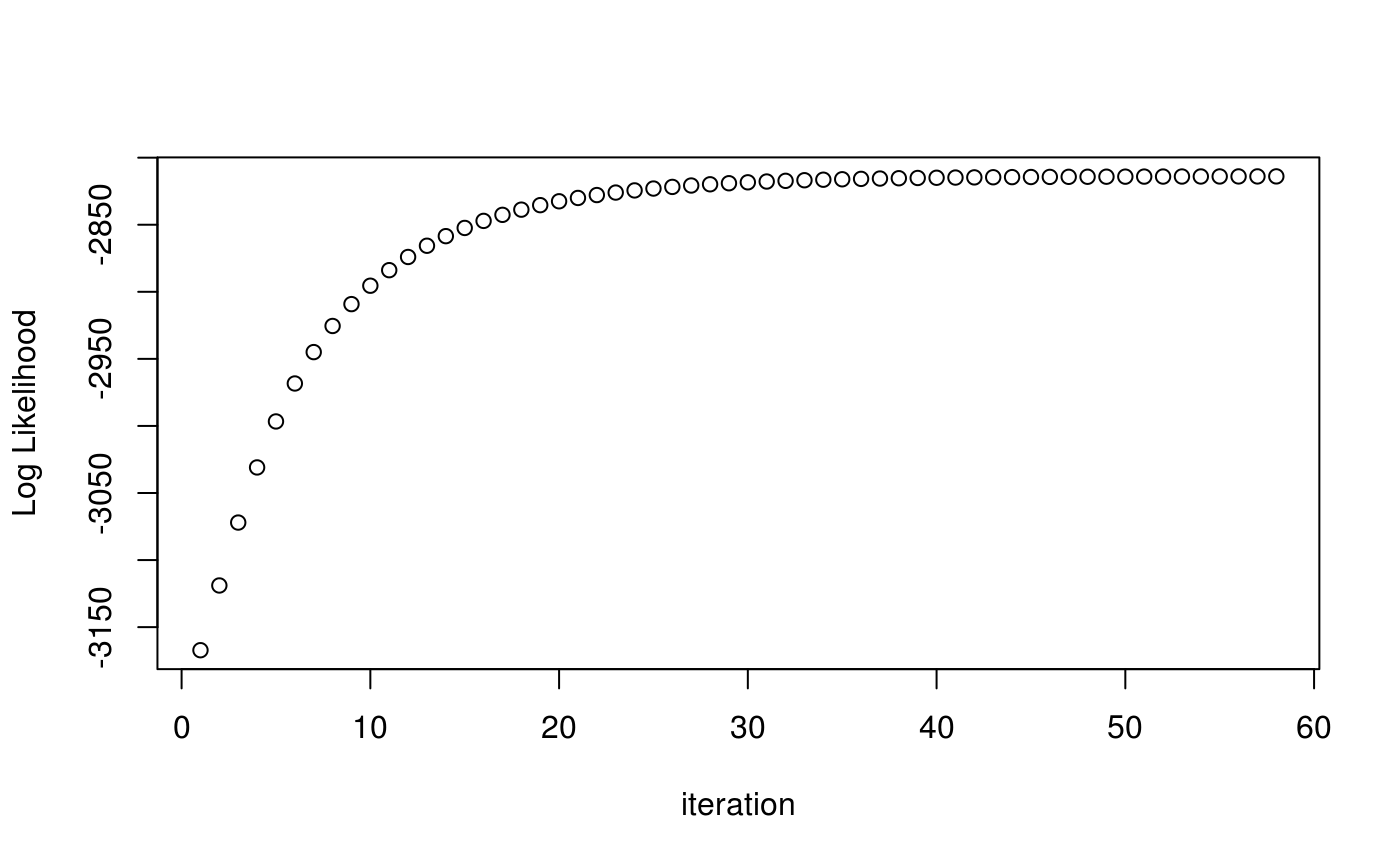
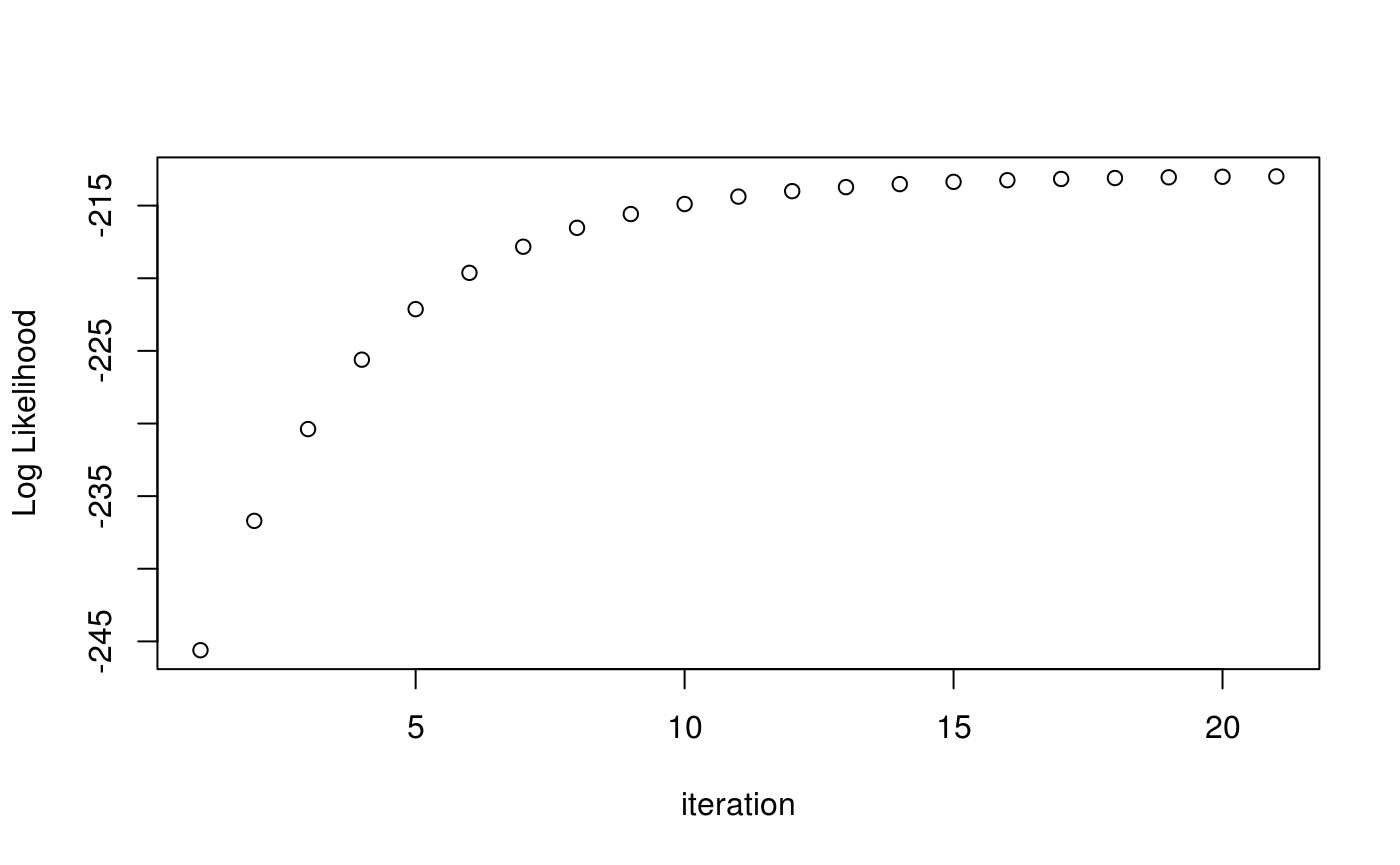
Built site for MixMatrix: 0.2.1@7a97ada

diff --git a/reference/matrixmixture.html b/reference/matrixmixture.html
@@ -258,9 +258,9 @@ numbers output more results.</p></td>
 
     <h2 class="hasAnchor" id="examples"><a class="anchor" href="#examples"></a>Examples</h2>
     <pre class="examples"><div class='input'><span class='fu'><a href='https://www.rdocumentation.org/packages/base/topics/Random'>set.seed</a></span>(<span class='fl'>20180221</span>)
-<span class='no'>A</span> <span class='kw'>&lt;-</span> <span class='fu'><a href='rmatrixt.html'>rmatrixt</a></span>(<span class='fl'>30</span>,<span class='kw'>mean</span><span class='kw'>=</span><span class='fu'><a href='https://www.rdocumentation.org/packages/base/topics/matrix'>matrix</a></span>(<span class='fl'>0</span>,<span class='kw'>nrow</span><span class='kw'>=</span><span class='fl'>3</span>,<span class='kw'>ncol</span><span class='kw'>=</span><span class='fl'>4</span>), <span class='kw'>df</span> <span class='kw'>=</span> <span class='fl'>20</span>)
+<span class='no'>A</span> <span class='kw'>&lt;-</span> <span class='fu'><a href='rmatrixt.html'>rmatrixt</a></span>(<span class='fl'>30</span>,<span class='kw'>mean</span><span class='kw'>=</span><span class='fu'><a href='https://www.rdocumentation.org/packages/base/topics/matrix'>matrix</a></span>(<span class='fl'>0</span>,<span class='kw'>nrow</span><span class='kw'>=</span><span class='fl'>3</span>,<span class='kw'>ncol</span><span class='kw'>=</span><span class='fl'>4</span>), <span class='kw'>df</span> <span class='kw'>=</span> <span class='fl'>5</span>)
 <span class='co'># 3x4 matrices with mean 0</span>
-<span class='no'>B</span> <span class='kw'>&lt;-</span> <span class='fu'><a href='rmatrixt.html'>rmatrixt</a></span>(<span class='fl'>30</span>,<span class='kw'>mean</span><span class='kw'>=</span><span class='fu'><a href='https://www.rdocumentation.org/packages/base/topics/matrix'>matrix</a></span>(<span class='fl'>2</span>,<span class='kw'>nrow</span><span class='kw'>=</span><span class='fl'>3</span>,<span class='kw'>ncol</span><span class='kw'>=</span><span class='fl'>4</span>), <span class='kw'>df</span> <span class='kw'>=</span> <span class='fl'>20</span>)
+<span class='no'>B</span> <span class='kw'>&lt;-</span> <span class='fu'><a href='rmatrixt.html'>rmatrixt</a></span>(<span class='fl'>30</span>,<span class='kw'>mean</span><span class='kw'>=</span><span class='fu'><a href='https://www.rdocumentation.org/packages/base/topics/matrix'>matrix</a></span>(<span class='fl'>1</span>,<span class='kw'>nrow</span><span class='kw'>=</span><span class='fl'>3</span>,<span class='kw'>ncol</span><span class='kw'>=</span><span class='fl'>4</span>), <span class='kw'>df</span> <span class='kw'>=</span> <span class='fl'>5</span>)
 <span class='co'># 3x4 matrices with mean 2</span>
 <span class='no'>C</span> <span class='kw'>&lt;-</span> <span class='fu'><a href='https://www.rdocumentation.org/packages/base/topics/array'>array</a></span>(<span class='fu'><a href='https://www.rdocumentation.org/packages/base/topics/c'>c</a></span>(<span class='no'>A</span>,<span class='no'>B</span>), <span class='kw'>dim</span><span class='kw'>=</span><span class='fu'><a href='https://www.rdocumentation.org/packages/base/topics/c'>c</a></span>(<span class='fl'>3</span>,<span class='fl'>4</span>,<span class='fl'>60</span>)) <span class='co'># combine into one array</span>
 <span class='no'>prior</span> <span class='kw'>&lt;-</span> <span class='fu'><a href='https://www.rdocumentation.org/packages/base/topics/c'>c</a></span>(<span class='fl'>.5</span>,<span class='fl'>.5</span>) <span class='co'># equal probability prior</span>
@@ -270,22 +270,22 @@ numbers output more results.</p></td>
               <span class='kw'>V</span> <span class='kw'>=</span> <span class='fu'><a href='https://www.rdocumentation.org/packages/base/topics/array'>array</a></span>(<span class='fu'><a href='https://www.rdocumentation.org/packages/base/topics/c'>c</a></span>(<span class='fu'><a href='https://www.rdocumentation.org/packages/base/topics/diag'>diag</a></span>(<span class='fl'>4</span>), <span class='fu'><a href='https://www.rdocumentation.org/packages/base/topics/diag'>diag</a></span>(<span class='fl'>4</span>)), <span class='kw'>dim</span> <span class='kw'>=</span> <span class='fu'><a href='https://www.rdocumentation.org/packages/base/topics/c'>c</a></span>(<span class='fl'>4</span>,<span class='fl'>4</span>,<span class='fl'>2</span>))
  )
 <span class='co'># fit model</span>
- <span class='no'>res</span><span class='kw'>&lt;-</span><span class='fu'>matrixmixture</span>(<span class='no'>C</span>, <span class='kw'>init</span> <span class='kw'>=</span> <span class='no'>init</span>, <span class='kw'>prior</span> <span class='kw'>=</span> <span class='no'>prior</span>, <span class='kw'>nu</span> <span class='kw'>=</span> <span class='fl'>20</span>,
+ <span class='no'>res</span><span class='kw'>&lt;-</span><span class='fu'>matrixmixture</span>(<span class='no'>C</span>, <span class='kw'>init</span> <span class='kw'>=</span> <span class='no'>init</span>, <span class='kw'>prior</span> <span class='kw'>=</span> <span class='no'>prior</span>, <span class='kw'>nu</span> <span class='kw'>=</span> <span class='fl'>5</span>,
                     <span class='kw'>model</span> <span class='kw'>=</span> <span class='st'>"t"</span>, <span class='kw'>tolerance</span> <span class='kw'>=</span> <span class='fl'>1e-1</span>)
 <span class='fu'><a href='https://www.rdocumentation.org/packages/base/topics/print'>print</a></span>(<span class='no'>res</span>$<span class='no'>centers</span>) <span class='co'># the final centers</span></div><div class='output co'>#&gt; , , 1
 #&gt; 
-#&gt;              [,1]         [,2]        [,3]         [,4]
-#&gt; [1,]  0.001741222 -0.008898201  0.03764730  0.016884605
-#&gt; [2,] -0.012953815 -0.014521968 -0.03022551 -0.007169073
-#&gt; [3,] -0.032794710 -0.070624929 -0.01196513 -0.021123126
+#&gt;           [,1]      [,2]      [,3]      [,4]
+#&gt; [1,] 0.2056392 0.2135474 0.1698944 0.2220153
+#&gt; [2,] 0.2062488 0.2395784 0.2214055 0.2163629
+#&gt; [3,] 0.1909913 0.1171760 0.1977869 0.1865871
 #&gt; 
 #&gt; , , 2
 #&gt; 
-#&gt;          [,1]     [,2]     [,3]     [,4]
-#&gt; [1,] 1.970542 1.966309 1.978277 1.991657
-#&gt; [2,] 2.077108 1.978337 1.918175 2.018974
-#&gt; [3,] 2.099783 2.027759 2.004154 2.019298
-#&gt; </div><div class='input'><span class='fu'><a href='https://www.rdocumentation.org/packages/base/topics/print'>print</a></span>(<span class='no'>res</span>$<span class='no'>pi</span>) <span class='co'># the final mixing proportion</span></div><div class='output co'>#&gt; [1] 0.5 0.5</div><div class='input'><span class='fu'><a href='https://www.rdocumentation.org/packages/graphics/topics/plot'>plot</a></span>(<span class='no'>res</span>) <span class='co'># the log likelihood by iteration</span></div><div class='img'><img src='matrixmixture-1.png' alt='' width='700' height='433' /></div><div class='input'><span class='fu'><a href='https://www.rdocumentation.org/packages/stats/topics/logLik'>logLik</a></span>(<span class='no'>res</span>)</div><div class='output co'>#&gt; 'log Lik.' -2289.165 (df=54)</div><div class='input'><span class='fu'><a href='https://www.rdocumentation.org/packages/stats/topics/AIC'>BIC</a></span>(<span class='no'>res</span>)</div><div class='output co'>#&gt; [1] 4799.425</div></pre>
+#&gt;           [,1]     [,2]      [,3]     [,4]
+#&gt; [1,] 1.1349530 1.145361 0.8255638 1.065123
+#&gt; [2,] 1.0281987 1.052490 0.9906570 1.113949
+#&gt; [3,] 0.8183212 1.238061 0.7437111 1.008742
+#&gt; </div><div class='input'><span class='fu'><a href='https://www.rdocumentation.org/packages/base/topics/print'>print</a></span>(<span class='no'>res</span>$<span class='no'>pi</span>) <span class='co'># the final mixing proportion</span></div><div class='output co'>#&gt; [1] 0.6710148 0.3289852</div><div class='input'><span class='fu'><a href='https://www.rdocumentation.org/packages/graphics/topics/plot'>plot</a></span>(<span class='no'>res</span>) <span class='co'># the log likelihood by iteration</span></div><div class='img'><img src='matrixmixture-1.png' alt='' width='700' height='433' /></div><div class='input'><span class='fu'><a href='https://www.rdocumentation.org/packages/stats/topics/logLik'>logLik</a></span>(<span class='no'>res</span>)</div><div class='output co'>#&gt; 'log Lik.' -641.5452 (df=54)</div><div class='input'><span class='fu'><a href='https://www.rdocumentation.org/packages/stats/topics/AIC'>BIC</a></span>(<span class='no'>res</span>)</div><div class='output co'>#&gt; [1] 1504.185</div></pre>
   </div>
   <div class="col-md-3 hidden-xs hidden-sm" id="sidebar">
     <h2>Contents</h2>

diff --git a/articles/mixturemodel.html b/articles/mixturemodel.html
@@ -137,16 +137,16 @@
 <a class="sourceLine" id="cb2-16" data-line-number="16"><span class="co">#&gt; , , 1</span></a>
 <a class="sourceLine" id="cb2-17" data-line-number="17"><span class="co">#&gt; </span></a>
 <a class="sourceLine" id="cb2-18" data-line-number="18"><span class="co">#&gt;              [,1]         [,2]         [,3]        [,4]</span></a>
-<a class="sourceLine" id="cb2-19" data-line-number="19"><span class="co">#&gt; [1,] -0.006334331  0.005291675  0.046679547  0.02229027</span></a>
-<a class="sourceLine" id="cb2-20" data-line-number="20"><span class="co">#&gt; [2,] -0.030859583 -0.010536029 -0.030230830 -0.02094065</span></a>
-<a class="sourceLine" id="cb2-21" data-line-number="21"><span class="co">#&gt; [3,] -0.060336897 -0.078355369 -0.007457056 -0.04333072</span></a>
+<a class="sourceLine" id="cb2-19" data-line-number="19"><span class="co">#&gt; [1,] -0.006361436  0.005463675  0.046477187  0.02226778</span></a>
+<a class="sourceLine" id="cb2-20" data-line-number="20"><span class="co">#&gt; [2,] -0.031021593 -0.010501312 -0.030108467 -0.02129999</span></a>
+<a class="sourceLine" id="cb2-21" data-line-number="21"><span class="co">#&gt; [3,] -0.060630085 -0.077994042 -0.007426548 -0.04327509</span></a>
 <a class="sourceLine" id="cb2-22" data-line-number="22"><span class="co">#&gt; </span></a>
 <a class="sourceLine" id="cb2-23" data-line-number="23"><span class="co">#&gt; , , 2</span></a>
 <a class="sourceLine" id="cb2-24" data-line-number="24"><span class="co">#&gt; </span></a>
 <a class="sourceLine" id="cb2-25" data-line-number="25"><span class="co">#&gt;          [,1]     [,2]     [,3]     [,4]</span></a>
-<a class="sourceLine" id="cb2-26" data-line-number="26"><span class="co">#&gt; [1,] 1.967747 1.947942 1.963370 1.987717</span></a>
-<a class="sourceLine" id="cb2-27" data-line-number="27"><span class="co">#&gt; [2,] 2.102479 1.969607 1.858999 2.030892</span></a>
-<a class="sourceLine" id="cb2-28" data-line-number="28"><span class="co">#&gt; [3,] 2.144823 2.052449 2.002152 2.032446</span></a>
+<a class="sourceLine" id="cb2-26" data-line-number="26"><span class="co">#&gt; [1,] 1.968205 1.947834 1.963072 1.987653</span></a>
+<a class="sourceLine" id="cb2-27" data-line-number="27"><span class="co">#&gt; [2,] 2.102164 1.970075 1.858328 2.030994</span></a>
+<a class="sourceLine" id="cb2-28" data-line-number="28"><span class="co">#&gt; [3,] 2.144635 2.052398 2.001943 2.032670</span></a>
 <a class="sourceLine" id="cb2-29" data-line-number="29"> <span class="kw"><a href="https://www.rdocumentation.org/packages/base/topics/print">print</a></span>(res<span class="op">$</span>pi) <span class="co"># the final mixing proportion</span></a>
 <a class="sourceLine" id="cb2-30" data-line-number="30"><span class="co">#&gt; [1] 0.5 0.5</span></a>
 <a class="sourceLine" id="cb2-31" data-line-number="31"></a>
